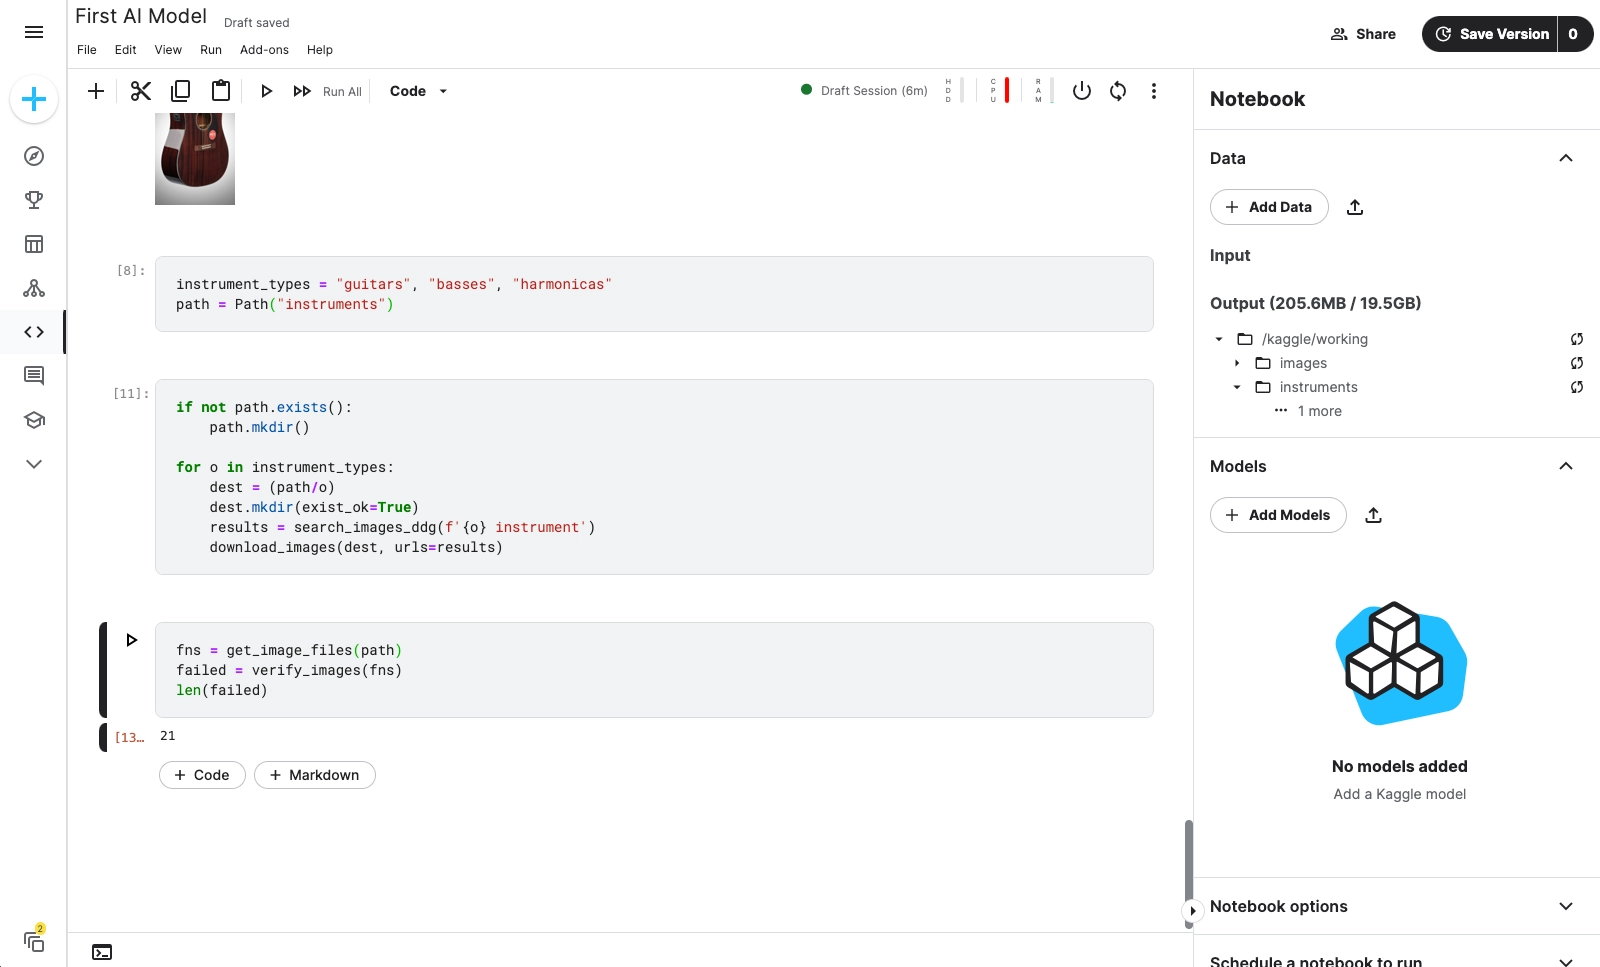
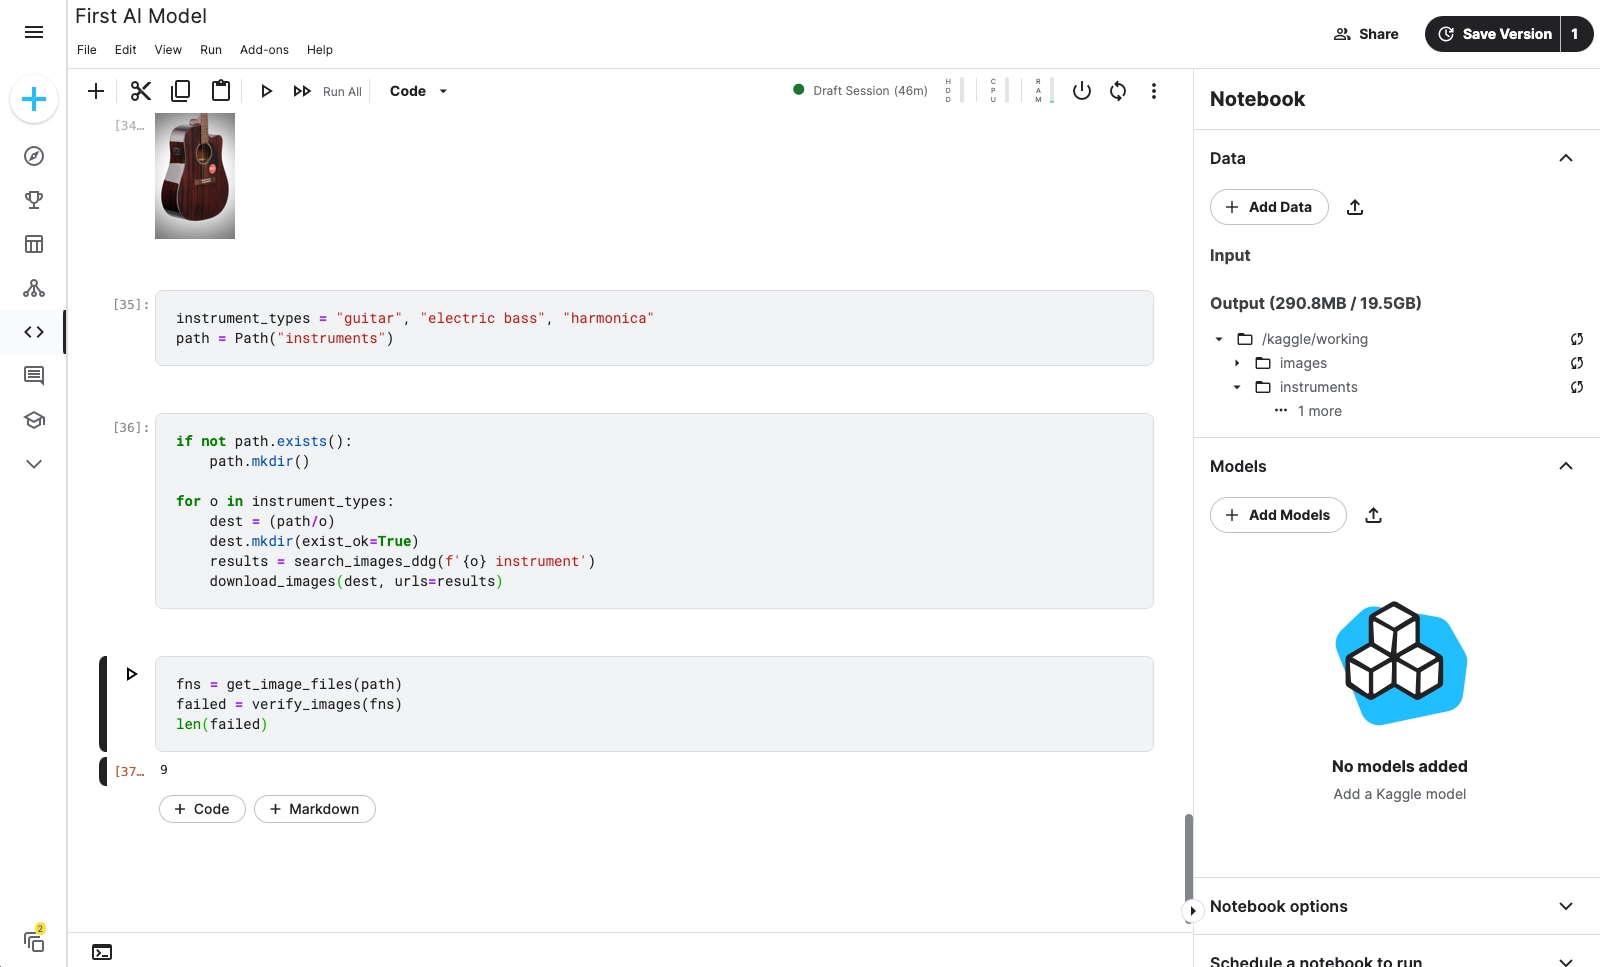
Write conclusion of article

diff --git a/client/components/BlogArticle/BlogBlockQuote.tsx b/client/components/BlogArticle/BlogBlockQuote.tsx
@@ -36,6 +36,10 @@ const RootStyles = styled.div`
         padding: 0 var(--app-horizontal-gutters);
         color: var(--text-secondary);
         font-style: italic;
+
+        > a:hover {
+          color: var(--text-secondary);
+        }
       }
     }
   }